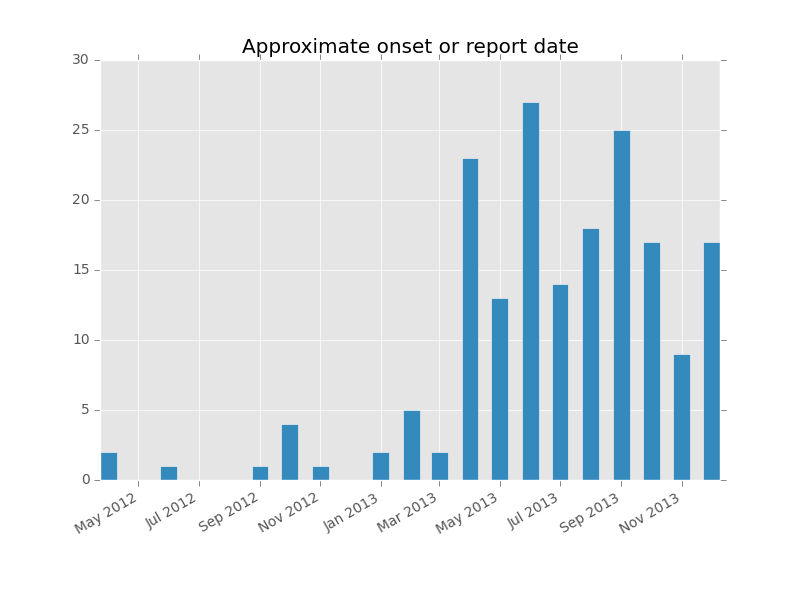
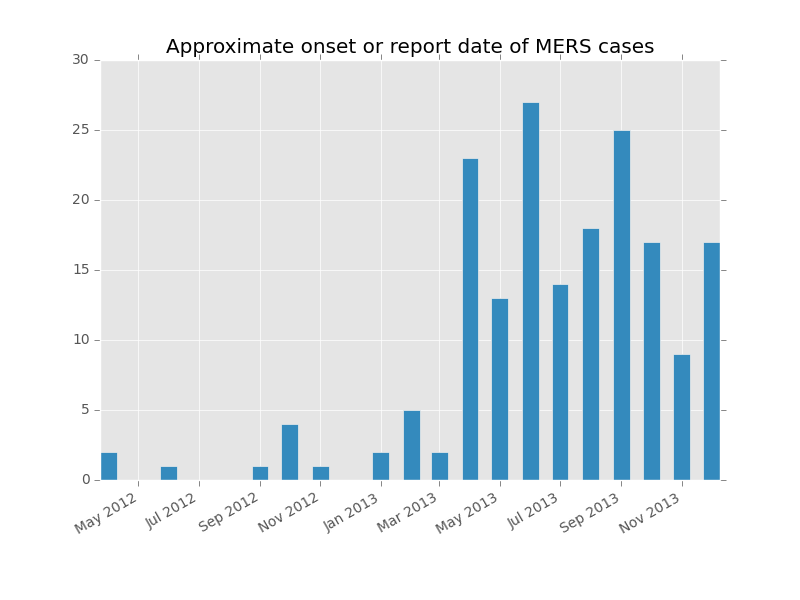
auto_generated figures

Changed region(s): [[0.1875, 0.06, 0.8125, 0.09]]

diff --git a/docs/examples.py b/docs/examples.py
@@ -39,7 +39,7 @@ fig.savefig(os.path.join(dir, '../figs/example_casetree.png'), bbox_inches='tigh
 
 # Checkerboard plot
 fig, ax = epipy.checkerboard_plot(example_df, 'ID', 'Cluster', 'Date')
-ax.set_title("Test data")
+ax.set_title("Example outbreak data")
 fig.savefig(os.path.join(dir, '../figs/test_checkerboard.png'), bbox_inches='tight')
 
 
@@ -85,7 +85,7 @@ plt.savefig(os.path.join(dir, '../figs/year_epicurve.png'))
 # Monthly epicurve of MERS
 plt.figure()
 epipy.epicurve_plot(mers_df, 'dates', freq='month')
-plt.title('Approximate onset or report date')
+plt.title('Approximate onset or report date of MERS cases')
 plt.savefig(os.path.join(dir, '../figs/month_epicurve.png'))
 
 #################
